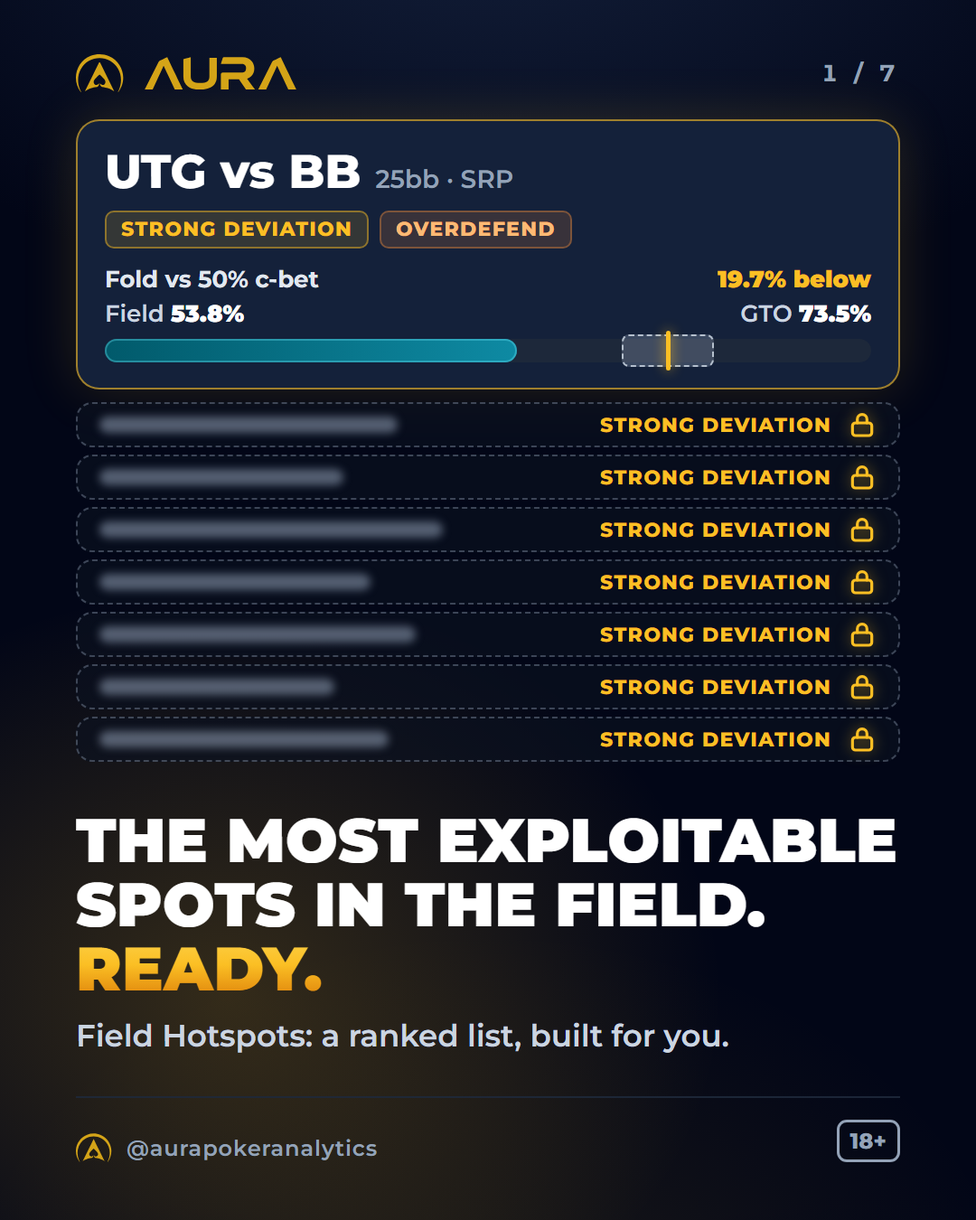
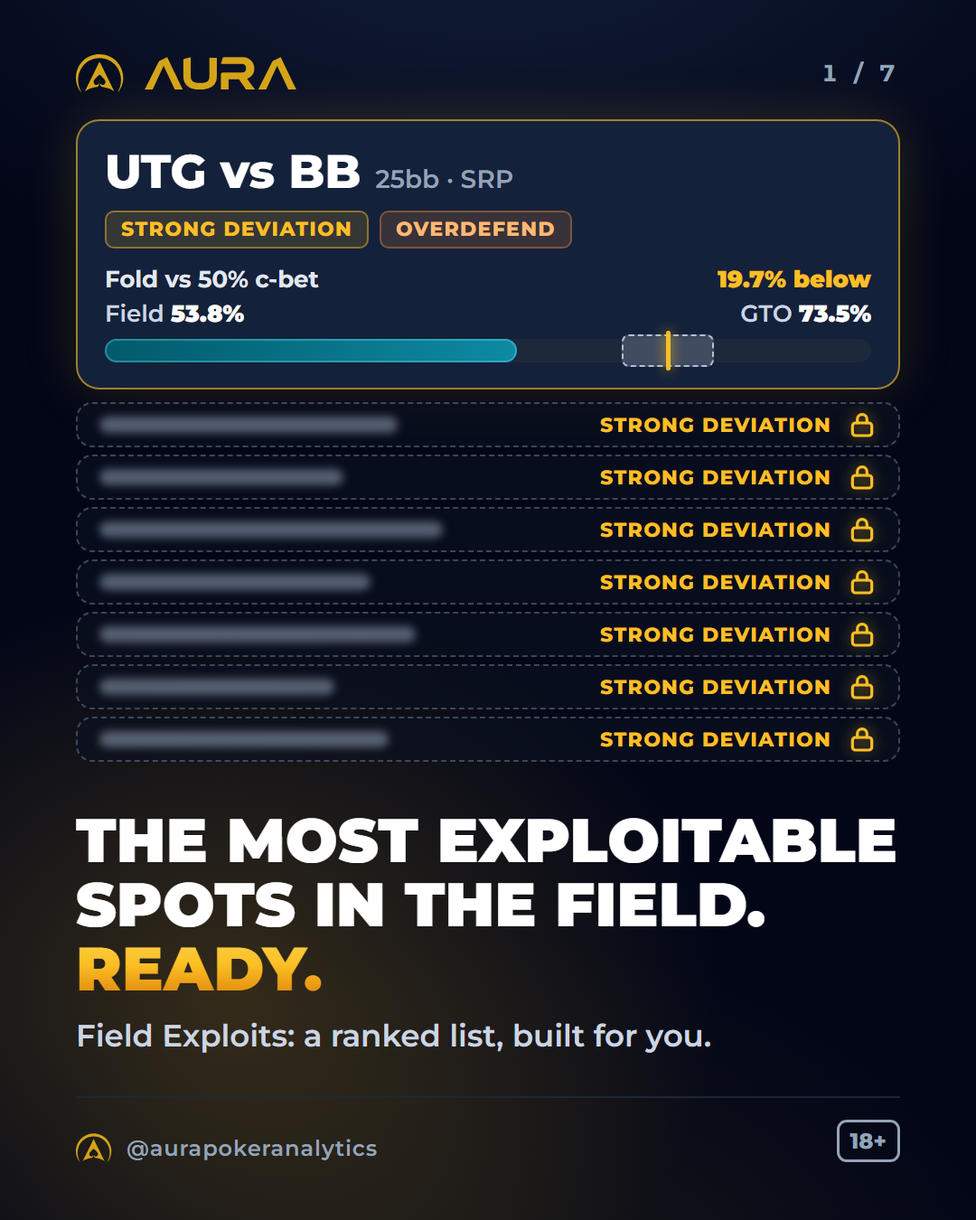
feat(field-exploits): pacote renomeado para Field Exploits (textos, UTMs, artes e e-mail)

Changed region(s): [[0.1833, 0.84, 0.7333, 0.8711]]

diff --git a/content/posts/field-exploits-launch/carrossel-v3/src/feed-pt.html b/content/posts/field-exploits-launch/carrossel-v3/src/feed-pt.html
@@ -42,7 +42,7 @@ u{text-decoration:underline;text-decoration-thickness:5px;text-underline-offset:
 <div class="lab sm"><span>Field <b>53,8%</b></span><span>GTO <b>73,5%</b></span></div>
 <div class="track"><div class="fill" style="width:53.8%"></div><div class="band" style="left:67.5%;width:12.0%"></div><div class="tick" style="left:73.5%"></div></div></div></div></div><div style="margin-top:14px"><div style="display:flex;flex-direction:column;gap:8px"><div class="lk" style="height:50px"><span class="bl" style="width:330px"></span><span class="cf">DESVIO FORTE</span><svg class="lk-ic" viewBox="0 0 24 24" fill="none" stroke="currentColor" stroke-width="2.4" stroke-linecap="round" stroke-linejoin="round"><rect x="4" y="10.5" width="16" height="10.5" rx="2.5"/><path d="M8 10.5V7.5a4 4 0 0 1 8 0v3"/></svg></div><div class="lk" style="height:50px"><span class="bl" style="width:270px"></span><span class="cf">DESVIO FORTE</span><svg class="lk-ic" viewBox="0 0 24 24" fill="none" stroke="currentColor" stroke-width="2.4" stroke-linecap="round" stroke-linejoin="round"><rect x="4" y="10.5" width="16" height="10.5" rx="2.5"/><path d="M8 10.5V7.5a4 4 0 0 1 8 0v3"/></svg></div><div class="lk" style="height:50px"><span class="bl" style="width:380px"></span><span class="cf">DESVIO FORTE</span><svg class="lk-ic" viewBox="0 0 24 24" fill="none" stroke="currentColor" stroke-width="2.4" stroke-linecap="round" stroke-linejoin="round"><rect x="4" y="10.5" width="16" height="10.5" rx="2.5"/><path d="M8 10.5V7.5a4 4 0 0 1 8 0v3"/></svg></div><div class="lk" style="height:50px"><span class="bl" style="width:300px"></span><span class="cf">DESVIO FORTE</span><svg class="lk-ic" viewBox="0 0 24 24" fill="none" stroke="currentColor" stroke-width="2.4" stroke-linecap="round" stroke-linejoin="round"><rect x="4" y="10.5" width="16" height="10.5" rx="2.5"/><path d="M8 10.5V7.5a4 4 0 0 1 8 0v3"/></svg></div><div class="lk" style="height:50px"><span class="bl" style="width:350px"></span><span class="cf">DESVIO FORTE</span><svg class="lk-ic" viewBox="0 0 24 24" fill="none" stroke="currentColor" stroke-width="2.4" stroke-linecap="round" stroke-linejoin="round"><rect x="4" y="10.5" width="16" height="10.5" rx="2.5"/><path d="M8 10.5V7.5a4 4 0 0 1 8 0v3"/></svg></div><div class="lk" style="height:50px"><span class="bl" style="width:260px"></span><span class="cf">DESVIO FORTE</span><svg class="lk-ic" viewBox="0 0 24 24" fill="none" stroke="currentColor" stroke-width="2.4" stroke-linecap="round" stroke-linejoin="round"><rect x="4" y="10.5" width="16" height="10.5" rx="2.5"/><path d="M8 10.5V7.5a4 4 0 0 1 8 0v3"/></svg></div><div class="lk" style="height:50px"><span class="bl" style="width:320px"></span><span class="cf">DESVIO FORTE</span><svg class="lk-ic" viewBox="0 0 24 24" fill="none" stroke="currentColor" stroke-width="2.4" stroke-linecap="round" stroke-linejoin="round"><rect x="4" y="10.5" width="16" height="10.5" rx="2.5"/><path d="M8 10.5V7.5a4 4 0 0 1 8 0v3"/></svg></div></div></div></div>
 <div class="abs bt"><div class="t" data-max="74">Os spots mais exploráveis<br>do field.<br><em>Prontos.</em></div>
-<div class="ss" style="font-size:32px;margin-top:16px;white-space:nowrap" data-fitline>Field Hotspots: a lista ranqueada, pronta pra você.</div></div>
+<div class="ss" style="font-size:32px;margin-top:16px;white-space:nowrap" data-fitline>Field Exploits: a lista ranqueada, pronta pra você.</div></div>
 <footer><div class="handle"><span class="icon" data-icon></span><span>@aurapokeranalytics</span></div><span class="age">18+</span></footer>
 </div><script src="../../instagram/src/common.js"></script>
 <script>

diff --git a/content/posts/field-exploits-launch/carrossel-v3/src/feed-en.html b/content/posts/field-exploits-launch/carrossel-v3/src/feed-en.html
@@ -49,7 +49,7 @@ u{text-decoration:underline;text-decoration-thickness:5px;text-underline-offset:
 <div class="track"><div class="fill" style="width:59.4%"></div><div class="band" style="left:70.3%;width:12.0%"></div><div class="tick" style="left:76.3%"></div></div></div></div></div></div>
  <div style="display:grid;grid-template-columns:1fr 1fr;gap:8px;margin-top:12px"><div class="lk" style="height:46px;padding:0 18px;gap:12px"><span class="bl" style="width:150px"></span><svg class="lk-ic" viewBox="0 0 24 24" fill="none" stroke="currentColor" stroke-width="2.4" stroke-linecap="round" stroke-linejoin="round"><rect x="4" y="10.5" width="16" height="10.5" rx="2.5"/><path d="M8 10.5V7.5a4 4 0 0 1 8 0v3"/></svg></div><div class="lk" style="height:46px;padding:0 18px;gap:12px"><span class="bl" style="width:120px"></span><svg class="lk-ic" viewBox="0 0 24 24" fill="none" stroke="currentColor" stroke-width="2.4" stroke-linecap="round" stroke-linejoin="round"><rect x="4" y="10.5" width="16" height="10.5" rx="2.5"/><path d="M8 10.5V7.5a4 4 0 0 1 8 0v3"/></svg></div><div class="lk" style="height:46px;padding:0 18px;gap:12px"><span class="bl" style="width:170px"></span><svg class="lk-ic" viewBox="0 0 24 24" fill="none" stroke="currentColor" stroke-width="2.4" stroke-linecap="round" stroke-linejoin="round"><rect x="4" y="10.5" width="16" height="10.5" rx="2.5"/><path d="M8 10.5V7.5a4 4 0 0 1 8 0v3"/></svg></div><div class="lk" style="height:46px;padding:0 18px;gap:12px"><span class="bl" style="width:130px"></span><svg class="lk-ic" viewBox="0 0 24 24" fill="none" stroke="currentColor" stroke-width="2.4" stroke-linecap="round" stroke-linejoin="round"><rect x="4" y="10.5" width="16" height="10.5" rx="2.5"/><path d="M8 10.5V7.5a4 4 0 0 1 8 0v3"/></svg></div><div class="lk" style="height:46px;padding:0 18px;gap:12px"><span class="bl" style="width:160px"></span><svg class="lk-ic" viewBox="0 0 24 24" fill="none" stroke="currentColor" stroke-width="2.4" stroke-linecap="round" stroke-linejoin="round"><rect x="4" y="10.5" width="16" height="10.5" rx="2.5"/><path d="M8 10.5V7.5a4 4 0 0 1 8 0v3"/></svg></div><div class="lk" style="height:46px;padding:0 18px;gap:12px"><span class="bl" style="width:110px"></span><svg class="lk-ic" viewBox="0 0 24 24" fill="none" stroke="currentColor" stroke-width="2.4" stroke-linecap="round" stroke-linejoin="round"><rect x="4" y="10.5" width="16" height="10.5" rx="2.5"/><path d="M8 10.5V7.5a4 4 0 0 1 8 0v3"/></svg></div><div class="lk" style="height:46px;padding:0 18px;gap:12px"><span class="bl" style="width:140px"></span><svg class="lk-ic" viewBox="0 0 24 24" fill="none" stroke="currentColor" stroke-width="2.4" stroke-linecap="round" stroke-linejoin="round"><rect x="4" y="10.5" width="16" height="10.5" rx="2.5"/><path d="M8 10.5V7.5a4 4 0 0 1 8 0v3"/></svg></div><div class="lk" style="height:46px;justify-content:center;border-style:solid;border-color:rgba(251,191,36,.5);background:rgba(251,191,36,.08)"><span style="font-size:22px;font-weight:800;letter-spacing:.08em;color:#FBBF24">7 LOCKED</span></div></div></div>
 <div class="abs bt"><div class="t" data-max="74">The most exploitable<br>spots in the field.<br><em>Ready.</em></div>
-<div class="ss" style="font-size:34px;margin-top:16px">Field Hotspots: a ranked list, built for you.</div></div>
+<div class="ss" style="font-size:34px;margin-top:16px">Field Exploits: a ranked list, built for you.</div></div>
 <footer><div class="handle"><span class="icon" data-icon></span><span>@aurapokeranalytics</span></div><span class="age">18+</span></footer>
 </div><script src="../../instagram/src/common.js"></script>
 <script>

diff --git a/content/posts/field-exploits-launch/carrossel-v3/src/story-capa-pt.html b/content/posts/field-exploits-launch/carrossel-v3/src/story-capa-pt.html
@@ -42,7 +42,7 @@ u{text-decoration:underline;text-decoration-thickness:5px;text-underline-offset:
 <div class="lab sm"><span>Field <b>53,8%</b></span><span>GTO <b>73,5%</b></span></div>
 <div class="track"><div class="fill" style="width:53.8%"></div><div class="band" style="left:67.5%;width:12.0%"></div><div class="tick" style="left:73.5%"></div></div></div></div></div><div style="margin-top:14px"><div style="display:flex;flex-direction:column;gap:10px"><div class="lk" style="height:62px"><span class="bl" style="width:330px"></span><span class="cf">DESVIO FORTE</span><svg class="lk-ic" viewBox="0 0 24 24" fill="none" stroke="currentColor" stroke-width="2.4" stroke-linecap="round" stroke-linejoin="round"><rect x="4" y="10.5" width="16" height="10.5" rx="2.5"/><path d="M8 10.5V7.5a4 4 0 0 1 8 0v3"/></svg></div><div class="lk" style="height:62px"><span class="bl" style="width:270px"></span><span class="cf">DESVIO FORTE</span><svg class="lk-ic" viewBox="0 0 24 24" fill="none" stroke="currentColor" stroke-width="2.4" stroke-linecap="round" stroke-linejoin="round"><rect x="4" y="10.5" width="16" height="10.5" rx="2.5"/><path d="M8 10.5V7.5a4 4 0 0 1 8 0v3"/></svg></div><div class="lk" style="height:62px"><span class="bl" style="width:380px"></span><span class="cf">DESVIO FORTE</span><svg class="lk-ic" viewBox="0 0 24 24" fill="none" stroke="currentColor" stroke-width="2.4" stroke-linecap="round" stroke-linejoin="round"><rect x="4" y="10.5" width="16" height="10.5" rx="2.5"/><path d="M8 10.5V7.5a4 4 0 0 1 8 0v3"/></svg></div><div class="lk" style="height:62px"><span class="bl" style="width:300px"></span><span class="cf">DESVIO FORTE</span><svg class="lk-ic" viewBox="0 0 24 24" fill="none" stroke="currentColor" stroke-width="2.4" stroke-linecap="round" stroke-linejoin="round"><rect x="4" y="10.5" width="16" height="10.5" rx="2.5"/><path d="M8 10.5V7.5a4 4 0 0 1 8 0v3"/></svg></div><div class="lk" style="height:62px"><span class="bl" style="width:350px"></span><span class="cf">DESVIO FORTE</span><svg class="lk-ic" viewBox="0 0 24 24" fill="none" stroke="currentColor" stroke-width="2.4" stroke-linecap="round" stroke-linejoin="round"><rect x="4" y="10.5" width="16" height="10.5" rx="2.5"/><path d="M8 10.5V7.5a4 4 0 0 1 8 0v3"/></svg></div><div class="lk" style="height:62px"><span class="bl" style="width:260px"></span><span class="cf">DESVIO FORTE</span><svg class="lk-ic" viewBox="0 0 24 24" fill="none" stroke="currentColor" stroke-width="2.4" stroke-linecap="round" stroke-linejoin="round"><rect x="4" y="10.5" width="16" height="10.5" rx="2.5"/><path d="M8 10.5V7.5a4 4 0 0 1 8 0v3"/></svg></div><div class="lk" style="height:62px"><span class="bl" style="width:320px"></span><span class="cf">DESVIO FORTE</span><svg class="lk-ic" viewBox="0 0 24 24" fill="none" stroke="currentColor" stroke-width="2.4" stroke-linecap="round" stroke-linejoin="round"><rect x="4" y="10.5" width="16" height="10.5" rx="2.5"/><path d="M8 10.5V7.5a4 4 0 0 1 8 0v3"/></svg></div></div></div></div>
 <div class="abs" style="top:1130px"><div class="t" data-max="74">Os spots mais exploráveis<br>do field.<br><em>Prontos.</em></div>
-<div class="ss" style="font-size:36px;margin-top:18px">Field Hotspots no menu do topo.</div></div>
+<div class="ss" style="font-size:36px;margin-top:18px">Field Exploits no menu do topo.</div></div>
 <footer><div class="handle"><span class="icon" data-icon></span><span>@aurapokeranalytics</span></div><span class="age">18+</span></footer>
 </div><script src="../../instagram/src/common.js"></script>
 <script>

diff --git a/content/posts/field-exploits-launch/carrossel-v3/src/carrossel-en-01.html b/content/posts/field-exploits-launch/carrossel-v3/src/carrossel-en-01.html
@@ -42,7 +42,7 @@
 <div class="lab sm"><span>Field <b>53.8%</b></span><span>GTO <b>73.5%</b></span></div>
 <div class="track"><div class="fill" style="width:53.8%"></div><div class="band" style="left:67.5%;width:12.0%"></div><div class="tick" style="left:73.5%"></div></div></div></div></div><div style="display:flex;flex-direction:column;gap:8px;margin-top:14px"><div class="lk" style="height:50px"><span class="bl" style="width:330px"></span><span class="cf">STRONG DEVIATION</span><svg class="lk-ic" viewBox="0 0 24 24" fill="none" stroke="currentColor" stroke-width="2.4" stroke-linecap="round" stroke-linejoin="round"><rect x="4" y="10.5" width="16" height="10.5" rx="2.5"/><path d="M8 10.5V7.5a4 4 0 0 1 8 0v3"/></svg></div><div class="lk" style="height:50px"><span class="bl" style="width:270px"></span><span class="cf">STRONG DEVIATION</span><svg class="lk-ic" viewBox="0 0 24 24" fill="none" stroke="currentColor" stroke-width="2.4" stroke-linecap="round" stroke-linejoin="round"><rect x="4" y="10.5" width="16" height="10.5" rx="2.5"/><path d="M8 10.5V7.5a4 4 0 0 1 8 0v3"/></svg></div><div class="lk" style="height:50px"><span class="bl" style="width:380px"></span><span class="cf">STRONG DEVIATION</span><svg class="lk-ic" viewBox="0 0 24 24" fill="none" stroke="currentColor" stroke-width="2.4" stroke-linecap="round" stroke-linejoin="round"><rect x="4" y="10.5" width="16" height="10.5" rx="2.5"/><path d="M8 10.5V7.5a4 4 0 0 1 8 0v3"/></svg></div><div class="lk" style="height:50px"><span class="bl" style="width:300px"></span><span class="cf">STRONG DEVIATION</span><svg class="lk-ic" viewBox="0 0 24 24" fill="none" stroke="currentColor" stroke-width="2.4" stroke-linecap="round" stroke-linejoin="round"><rect x="4" y="10.5" width="16" height="10.5" rx="2.5"/><path d="M8 10.5V7.5a4 4 0 0 1 8 0v3"/></svg></div><div class="lk" style="height:50px"><span class="bl" style="width:350px"></span><span class="cf">STRONG DEVIATION</span><svg class="lk-ic" viewBox="0 0 24 24" fill="none" stroke="currentColor" stroke-width="2.4" stroke-linecap="round" stroke-linejoin="round"><rect x="4" y="10.5" width="16" height="10.5" rx="2.5"/><path d="M8 10.5V7.5a4 4 0 0 1 8 0v3"/></svg></div><div class="lk" style="height:50px"><span class="bl" style="width:260px"></span><span class="cf">STRONG DEVIATION</span><svg class="lk-ic" viewBox="0 0 24 24" fill="none" stroke="currentColor" stroke-width="2.4" stroke-linecap="round" stroke-linejoin="round"><rect x="4" y="10.5" width="16" height="10.5" rx="2.5"/><path d="M8 10.5V7.5a4 4 0 0 1 8 0v3"/></svg></div><div class="lk" style="height:50px"><span class="bl" style="width:320px"></span><span class="cf">STRONG DEVIATION</span><svg class="lk-ic" viewBox="0 0 24 24" fill="none" stroke="currentColor" stroke-width="2.4" stroke-linecap="round" stroke-linejoin="round"><rect x="4" y="10.5" width="16" height="10.5" rx="2.5"/><path d="M8 10.5V7.5a4 4 0 0 1 8 0v3"/></svg></div></div></div>
 <div class="abs bt"><div class="t" data-max="74">The most exploitable<br>spots in the field.<br><em>Ready.</em></div>
-<div class="ss" style="font-size:34px;margin-top:16px">Field Hotspots: a ranked list, built for you.</div></div>
+<div class="ss" style="font-size:34px;margin-top:16px">Field Exploits: a ranked list, built for you.</div></div>
 <footer><div class="handle"><span class="icon" data-icon></span><span>@aurapokeranalytics</span></div><span class="age">18+</span></footer>
 </div><script src="../../instagram/src/common.js"></script>
 <script>

diff --git a/content/posts/field-exploits-launch/email-pt.html b/content/posts/field-exploits-launch/email-pt.html
@@ -39,7 +39,7 @@
           </tr>
           <tr>
             <td style="padding-top:8px; padding-right:34px; padding-bottom:4px; padding-left:34px;" align="center">
-              <img src="https://www.aurapoker.com/email/field-hotspots-pt.png" width="530" height="485" alt="Card do Field Hotspots para o spot UTG vs BB a 25bb em SRP, flop A-high two-tone: fold do field contra o do GTO, rótulo Overdefend e a caixa Como explorar: blefe menos e aposte mais por value." style="display:block; width:100%; max-width:530px; height:auto; border:0; outline:none; text-decoration:none;">
+              <img src="https://www.aurapoker.com/email/field-exploits-pt.png" width="530" height="485" alt="Card do Field Exploits para o spot UTG vs BB a 25bb em SRP, flop A-high two-tone: fold do field contra o do GTO, rótulo Overdefend e a caixa Como explorar: blefe menos e aposte mais por value." style="display:block; width:100%; max-width:530px; height:auto; border:0; outline:none; text-decoration:none;">
             </td>
           </tr>
           <tr>
@@ -51,7 +51,7 @@
             <td style="padding-top:22px; padding-right:34px; padding-bottom:6px; padding-left:34px;" align="center">
               <table role="presentation" cellpadding="0" cellspacing="0" border="0"><tr>
                 <td align="center" bgcolor="#D4A418" style="border-radius:10px; background-color:#D4A418;">
-                  <a href="https://www.aurapoker.com?utm_source=email&amp;utm_medium=email&amp;utm_campaign=field-hotspots-launch&amp;utm_content=pt" style="display:inline-block; padding-top:14px; padding-bottom:14px; padding-left:34px; padding-right:34px; font-family:Arial,Helvetica,sans-serif; font-size:16px; font-weight:bold; color:#0b1220; text-decoration:none; border-radius:10px;">Abrir a lista</a>
+                  <a href="https://www.aurapoker.com?utm_source=email&amp;utm_medium=email&amp;utm_campaign=field-exploits-launch&amp;utm_content=pt" style="display:inline-block; padding-top:14px; padding-bottom:14px; padding-left:34px; padding-right:34px; font-family:Arial,Helvetica,sans-serif; font-size:16px; font-weight:bold; color:#0b1220; text-decoration:none; border-radius:10px;">Abrir a lista</a>
                 </td>
               </tr></table>
               <p style="margin:12px 0 0 0; font-family:Arial,Helvetica,sans-serif; font-size:13px; line-height:1.5; color:#9aa7ba;">1.ª troca de spots: segunda, 02/11. Ferramenta de estudo. 18+.</p>

diff --git a/content/posts/field-exploits-launch/email-en.html b/content/posts/field-exploits-launch/email-en.html
@@ -39,7 +39,7 @@
           </tr>
           <tr>
             <td style="padding-top:8px; padding-right:34px; padding-bottom:4px; padding-left:34px;" align="center">
-              <img src="https://www.aurapoker.com/email/field-hotspots-en.png" width="530" height="510" alt="Field Hotspots card for the UTG vs BB spot at 25bb in an SRP, A-high two-tone flop: field fold against GTO fold, an Overdefend label and the How to exploit box: bluff less and bet more for value." style="display:block; width:100%; max-width:530px; height:auto; border:0; outline:none; text-decoration:none;">
+              <img src="https://www.aurapoker.com/email/field-exploits-en.png" width="530" height="510" alt="Field Exploits card for the UTG vs BB spot at 25bb in an SRP, A-high two-tone flop: field fold against GTO fold, an Overdefend label and the How to exploit box: bluff less and bet more for value." style="display:block; width:100%; max-width:530px; height:auto; border:0; outline:none; text-decoration:none;">
             </td>
           </tr>
           <tr>
@@ -51,7 +51,7 @@
             <td style="padding-top:22px; padding-right:34px; padding-bottom:6px; padding-left:34px;" align="center">
               <table role="presentation" cellpadding="0" cellspacing="0" border="0"><tr>
                 <td align="center" bgcolor="#D4A418" style="border-radius:10px; background-color:#D4A418;">
-                  <a href="https://www.aurapoker.com?utm_source=email&amp;utm_medium=email&amp;utm_campaign=field-hotspots-launch&amp;utm_content=en" style="display:inline-block; padding-top:14px; padding-bottom:14px; padding-left:34px; padding-right:34px; font-family:Arial,Helvetica,sans-serif; font-size:16px; font-weight:bold; color:#0b1220; text-decoration:none; border-radius:10px;">Get the list</a>
+                  <a href="https://www.aurapoker.com?utm_source=email&amp;utm_medium=email&amp;utm_campaign=field-exploits-launch&amp;utm_content=en" style="display:inline-block; padding-top:14px; padding-bottom:14px; padding-left:34px; padding-right:34px; font-family:Arial,Helvetica,sans-serif; font-size:16px; font-weight:bold; color:#0b1220; text-decoration:none; border-radius:10px;">Get the list</a>
                 </td>
               </tr></table>
               <p style="margin:12px 0 0 0; font-family:Arial,Helvetica,sans-serif; font-size:13px; line-height:1.5; color:#9aa7ba;">First spot swap: Monday, Nov 2. Study tool. 18+.</p>

diff --git a/content/posts/field-exploits-launch/email-pt.preview.html b/content/posts/field-exploits-launch/email-pt.preview.html
@@ -39,7 +39,7 @@
           </tr>
           <tr>
             <td style="padding-top:8px; padding-right:34px; padding-bottom:4px; padding-left:34px;" align="center">
-              <img src="email/field-hotspots-pt.png" width="530" height="485" alt="Card do Field Hotspots para o spot UTG vs BB a 25bb em SRP, flop A-high two-tone: fold do field contra o do GTO, rótulo Overdefend e a caixa Como explorar: blefe menos e aposte mais por value." style="display:block; width:100%; max-width:530px; height:auto; border:0; outline:none; text-decoration:none;">
+              <img src="email/field-exploits-pt.png" width="530" height="485" alt="Card do Field Exploits para o spot UTG vs BB a 25bb em SRP, flop A-high two-tone: fold do field contra o do GTO, rótulo Overdefend e a caixa Como explorar: blefe menos e aposte mais por value." style="display:block; width:100%; max-width:530px; height:auto; border:0; outline:none; text-decoration:none;">
             </td>
           </tr>
           <tr>
@@ -51,7 +51,7 @@
             <td style="padding-top:22px; padding-right:34px; padding-bottom:6px; padding-left:34px;" align="center">
               <table role="presentation" cellpadding="0" cellspacing="0" border="0"><tr>
                 <td align="center" bgcolor="#D4A418" style="border-radius:10px; background-color:#D4A418;">
-                  <a href="https://www.aurapoker.com?utm_source=email&amp;utm_medium=email&amp;utm_campaign=field-hotspots-launch&amp;utm_content=pt" style="display:inline-block; padding-top:14px; padding-bottom:14px; padding-left:34px; padding-right:34px; font-family:Arial,Helvetica,sans-serif; font-size:16px; font-weight:bold; color:#0b1220; text-decoration:none; border-radius:10px;">Abrir a lista</a>
+                  <a href="https://www.aurapoker.com?utm_source=email&amp;utm_medium=email&amp;utm_campaign=field-exploits-launch&amp;utm_content=pt" style="display:inline-block; padding-top:14px; padding-bottom:14px; padding-left:34px; padding-right:34px; font-family:Arial,Helvetica,sans-serif; font-size:16px; font-weight:bold; color:#0b1220; text-decoration:none; border-radius:10px;">Abrir a lista</a>
                 </td>
               </tr></table>
               <p style="margin:12px 0 0 0; font-family:Arial,Helvetica,sans-serif; font-size:13px; line-height:1.5; color:#9aa7ba;">1.ª troca de spots: segunda, 02/11. Ferramenta de estudo. 18+.</p>

diff --git a/content/posts/field-exploits-launch/email-en.preview.html b/content/posts/field-exploits-launch/email-en.preview.html
@@ -39,7 +39,7 @@
           </tr>
           <tr>
             <td style="padding-top:8px; padding-right:34px; padding-bottom:4px; padding-left:34px;" align="center">
-              <img src="email/field-hotspots-en.png" width="530" height="510" alt="Field Hotspots card for the UTG vs BB spot at 25bb in an SRP, A-high two-tone flop: field fold against GTO fold, an Overdefend label and the How to exploit box: bluff less and bet more for value." style="display:block; width:100%; max-width:530px; height:auto; border:0; outline:none; text-decoration:none;">
+              <img src="email/field-exploits-en.png" width="530" height="510" alt="Field Exploits card for the UTG vs BB spot at 25bb in an SRP, A-high two-tone flop: field fold against GTO fold, an Overdefend label and the How to exploit box: bluff less and bet more for value." style="display:block; width:100%; max-width:530px; height:auto; border:0; outline:none; text-decoration:none;">
             </td>
           </tr>
           <tr>
@@ -51,7 +51,7 @@
             <td style="padding-top:22px; padding-right:34px; padding-bottom:6px; padding-left:34px;" align="center">
               <table role="presentation" cellpadding="0" cellspacing="0" border="0"><tr>
                 <td align="center" bgcolor="#D4A418" style="border-radius:10px; background-color:#D4A418;">
-                  <a href="https://www.aurapoker.com?utm_source=email&amp;utm_medium=email&amp;utm_campaign=field-hotspots-launch&amp;utm_content=en" style="display:inline-block; padding-top:14px; padding-bottom:14px; padding-left:34px; padding-right:34px; font-family:Arial,Helvetica,sans-serif; font-size:16px; font-weight:bold; color:#0b1220; text-decoration:none; border-radius:10px;">Get the list</a>
+                  <a href="https://www.aurapoker.com?utm_source=email&amp;utm_medium=email&amp;utm_campaign=field-exploits-launch&amp;utm_content=en" style="display:inline-block; padding-top:14px; padding-bottom:14px; padding-left:34px; padding-right:34px; font-family:Arial,Helvetica,sans-serif; font-size:16px; font-weight:bold; color:#0b1220; text-decoration:none; border-radius:10px;">Get the list</a>
                 </td>
               </tr></table>
               <p style="margin:12px 0 0 0; font-family:Arial,Helvetica,sans-serif; font-size:13px; line-height:1.5; color:#9aa7ba;">First spot swap: Monday, Nov 2. Study tool. 18+.</p>

diff --git a/content/posts/field-exploits-launch/instagram/src/base.css b/content/posts/field-exploits-launch/instagram/src/base.css
@@ -131,7 +131,7 @@ small { font-size: 0.72em; font-weight: 600; color: var(--ink-soft); white-space
 .fcard .fglow { position: absolute; left: 50%; top: 50%; width: 1200px; height: 620px; transform: translate(-50%, -50%); background: radial-gradient(closest-side, rgba(251,191,36,.30), transparent); }
 .pillrow .seal.big { font-size: 34px; padding: 14px 30px; margin: 0; vertical-align: baseline; background: transparent; color: #FBBF24; border: 3px solid #FBBF24; }
 
-/* ---- Field Hotspots ---- */
+/* ---- Field Exploits ---- */
 .title { white-space: normal; }
 .sub { margin-top: 22px; }
 :root { --od-bg: rgba(251, 146, 60, .16); --od: #FDBA74; --of-bg: rgba(56, 189, 248, .14); --of: #7DD3FC; }

diff --git a/content/posts/field-exploits-launch/carrossel-v3/build_pacote.py b/content/posts/field-exploits-launch/carrossel-v3/build_pacote.py
@@ -1,8 +1,8 @@
-"""Field Hotspots - resto do pacote no visual e na narrativa do carrossel V3.
+"""Field Exploits - resto do pacote no visual e na narrativa do carrossel V3.
 
 Gera: instagram/feed-pt.png, feed-en.png (1080x1350), story-pt.png, story-en.png, story-capa-pt.png (1080x1920)
-      e email/field-hotspots-pt.png, -en.png (card do spot, 1200 px de largura).
-HTML-fonte em carrossel-v3/src/. Espelho das artes de Instagram em instagram/output/field-hotspots-launch/.
+      e email/field-exploits-pt.png, -en.png (card do spot, 1200 px de largura).
+HTML-fonte em carrossel-v3/src/. Espelho das artes de Instagram em instagram/output/field-exploits-launch/.
 Reusa CSS, textura de celulas, barras field x GTO e cartas de build.py (carrossel V3). Numeros so de ../numeros-verificados.md
 e _ops/home-painel-v2/numeros.md (6.9M+). Os 7 cards trancados sao formas borradas, sem texto de spot.
 Nao gera o HTML do e-mail (so a imagem).
@@ -23,7 +23,7 @@ from build import CSS, FIT_JS, HERE, LOCK, SRC, bar_block, card_el, dots, title
 POST = HERE.parent
 IG = POST / "instagram"
 EMAIL = POST / "email"
-MIRROR = B.ROOT / "instagram/output/field-hotspots-launch"
+MIRROR = B.ROOT / "instagram/output/field-exploits-launch"
 
 T = {
     "pt": dict(
@@ -82,7 +82,7 @@ def feed_pt():
     body = f"""<div class="glowb" style="left:-300px;bottom:-200px;width:1100px;height:900px"></div>
 <div class="abs" style="top:132px">{open_card('pt')}<div style="margin-top:14px">{locked_rows(7, 50, 'DESVIO FORTE')}</div></div>
 <div class="abs bt">{title('Os spots mais exploráveis<br>do field.<br><em>Prontos.</em>', 74)}
-<div class="ss" style="font-size:32px;margin-top:16px;white-space:nowrap" data-fitline>Field Hotspots: a lista ranqueada, pronta pra você.</div></div>"""
+<div class="ss" style="font-size:32px;margin-top:16px;white-space:nowrap" data-fitline>Field Exploits: a lista ranqueada, pronta pra você.</div></div>"""
     return shell(body, 1350)
 
 
@@ -100,7 +100,7 @@ def feed_en():
  <div style="margin-top:20px">{blocks}</div></div>
  <div style="display:grid;grid-template-columns:1fr 1fr;gap:8px;margin-top:12px">{cells}</div></div>
 <div class="abs bt">{title('The most exploitable<br>spots in the field.<br><em>Ready.</em>', 74)}
-<div class="ss" style="font-size:34px;margin-top:16px">Field Hotspots: a ranked list, built for you.</div></div>"""
+<div class="ss" style="font-size:34px;margin-top:16px">Field Exploits: a ranked list, built for you.</div></div>"""
     return shell(body, 1350, ".hb .lab{font-size:24px}.hb .track{height:20px;margin-top:10px}.hb .lab.sm{margin-top:2px}")
 
 
@@ -146,7 +146,7 @@ def story_capa_pt():
     body = f"""<div class="glowb" style="left:-300px;bottom:100px;width:1100px;height:900px"></div>
 <div class="abs" style="top:290px">{open_card('pt')}<div style="margin-top:14px">{locked_rows(7, 62, 'DESVIO FORTE', gap=10)}</div></div>
 <div class="abs" style="top:1130px">{title('Os spots mais exploráveis<br>do field.<br><em>Prontos.</em>', 74)}
-<div class="ss" style="font-size:36px;margin-top:18px">Field Hotspots no menu do topo.</div></div>"""
+<div class="ss" style="font-size:36px;margin-top:18px">Field Exploits no menu do topo.</div></div>"""
     return shell(body, 1920, top=190)
 
 
@@ -178,7 +178,7 @@ JOBS = {
     "story-pt": (lambda: story_num("pt"), 1920, IG), "story-en": (lambda: story_num("en"), 1920, IG),
     "story-capa-pt": (story_capa_pt, 1920, IG),
 }
-BANNED = ["beta", "ponte", "pool vs gto", "overlay", "solver", "wizard", "pool", "campo", "early bird", "mdf", "top 8", "os maiores", "biggest", "pp "]
+BANNED = ["beta", "ponte", "pool vs gto", "overlay", "solver", "wizard", "pool", "campo", "early bird", "mdf", "top 8", "hotspot", "hotspots", "os maiores", "biggest", "pp "]
 
 QA_JS = """() => {
   const page = document.querySelector('.page');
@@ -233,7 +233,7 @@ if __name__ == "__main__":
             pg.goto(f.as_uri())
             pg.evaluate("document.fonts.ready")
             pg.wait_for_timeout(400)
-            png = EMAIL / f"field-hotspots-{lang}.png"
+            png = EMAIL / f"field-exploits-{lang}.png"
             pg.locator("#m").screenshot(path=str(png))
             txt = pg.evaluate("document.body.innerText").lower()
             pg.close()
@@ -247,7 +247,7 @@ if __name__ == "__main__":
     for lang in ("pt", "en"):
         if only and f"email-{lang}" not in only:
             continue
-        im = Image.open(EMAIL / f"field-hotspots-{lang}.png")
+        im = Image.open(EMAIL / f"field-exploits-{lang}.png")
         hd = round(im.height * 530 / im.width)
         htmls = {}
         for kind, preview in (("final", False), ("preview", True)):

diff --git a/content/posts/field-exploits-launch/carrossel-v3/email_html.py b/content/posts/field-exploits-launch/carrossel-v3/email_html.py
@@ -1,6 +1,6 @@
-"""Field Hotspots - HTML de envio do e-mail (Resend, 600 px, tabelas e estilos inline) e QA.
+"""Field Exploits - HTML de envio do e-mail (Resend, 600 px, tabelas e estilos inline) e QA.
 
-Texto: ../email.md (blocos "Corpo (copiar)", PT e EN), assunto recomendado = opcao 1. Imagem: ../email/field-hotspots-<lang>.png
+Texto: ../email.md (blocos "Corpo (copiar)", PT e EN), assunto recomendado = opcao 1. Imagem: ../email/field-exploits-<lang>.png
 (gerada por build_pacote.py). O HTML de envio aponta para https://www.aurapoker.com/email/ (hospedagem no aura-landing, outra frente);
 o .preview.html usa o caminho relativo email/. Chamado por build_pacote.py.
 """
@@ -11,7 +11,7 @@ from pathlib import Path
 POST = Path(__file__).resolve().parents[1]
 EMAIL = POST / "email"
 IMG_BASE = "https://www.aurapoker.com/email/"
-LANDING = "https://www.aurapoker.com?utm_source=email&utm_medium=email&utm_campaign=field-hotspots-launch&utm_content={lang}"
+LANDING = "https://www.aurapoker.com?utm_source=email&utm_medium=email&utm_campaign=field-exploits-launch&utm_content={lang}"
 UNSUB = "{{{RESEND_UNSUBSCRIBE_URL}}}"
 
 EM = {
@@ -27,7 +27,7 @@ EM = {
         btn="Abrir a lista", under="1.ª troca de spots: segunda, 02/11. Ferramenta de estudo. 18+.",
         f1="Você recebe este e-mail porque tem uma conta ou lista de espera da Aura.", unsub="Cancelar inscrição",
         f2="Ferramenta de estudo. 18+.", f3="Fale com a gente:",
-        alt="Card do Field Hotspots para o spot UTG vs BB a 25bb em SRP, flop A-high two-tone: fold do field contra o do GTO, rótulo Overdefend e a caixa Como explorar: blefe menos e aposte mais por value.",
+        alt="Card do Field Exploits para o spot UTG vs BB a 25bb em SRP, flop A-high two-tone: fold do field contra o do GTO, rótulo Overdefend e a caixa Como explorar: blefe menos e aposte mais por value.",
     ),
     "en": dict(
         lang_attr="en", subject="The list of the field's most exploitable spots is ready",
@@ -41,7 +41,7 @@ EM = {
         btn="Get the list", under="First spot swap: Monday, Nov 2. Study tool. 18+.",
         f1="You are receiving this email because you have an Aura account or waitlist spot.", unsub="Unsubscribe",
         f2="Study tool. 18+.", f3="Reach us:",
-        alt="Field Hotspots card for the UTG vs BB spot at 25bb in an SRP, A-high two-tone flop: field fold against GTO fold, an Overdefend label and the How to exploit box: bluff less and bet more for value.",
+        alt="Field Exploits card for the UTG vs BB spot at 25bb in an SRP, A-high two-tone flop: field fold against GTO fold, an Overdefend label and the How to exploit box: bluff less and bet more for value.",
     ),
 }
 
@@ -125,7 +125,7 @@ def email_html(lang, img_h, preview):
     c = dict(EM[lang])
     c["subject"] = H.escape(c["subject"])
     c["alt"] = H.escape(c["alt"])
-    c["src"] = f"email/field-hotspots-{lang}.png" if preview else f"{IMG_BASE}field-hotspots-{lang}.png"
+    c["src"] = f"email/field-exploits-{lang}.png" if preview else f"{IMG_BASE}field-exploits-{lang}.png"
     c["url"] = LANDING.format(lang=lang).replace("&", "&amp;")
     c["unsub_url"] = UNSUB
     c["img_h"] = str(img_h)
@@ -151,7 +151,7 @@ def qa(lang, htmls, banned):
             out.append(f"{tag}: UTM do CTA ausente")
         if f'href="{UNSUB}"' not in h:
             out.append(f"{tag}: descadastro ausente")
-        want = f"email/field-hotspots-{lang}.png" if kind == "preview" else f"{IMG_BASE}field-hotspots-{lang}.png"
+        want = f"email/field-exploits-{lang}.png" if kind == "preview" else f"{IMG_BASE}field-exploits-{lang}.png"
         if f'src="{want}"' not in h:
             out.append(f"{tag}: imagem {want} ausente")
         if "app.aura.poker" in h or "/login" in h.lower():

diff --git a/content/posts/field-exploits-launch/instagram/src/build.py b/content/posts/field-exploits-launch/instagram/src/build.py
@@ -1,9 +1,9 @@
-"""Field Hotspots - build das artes de lancamento (mesmo pipeline HTML -> PNG do Modo GTO).
+"""Field Exploits - build das artes de lancamento (mesmo pipeline HTML -> PNG do Modo GTO).
 
 1. le numbers.json (unica fonte de numero; hoje tudo "[NUM]", ver numeros-verificados.md quando chegar)
 2. gera os HTMLs-fonte em src/
-3. renderiza com Playwright (device_scale_factor=1) -> PNGs em content/posts/field-hotspots-launch/instagram/
-   e copia para instagram/output/field-hotspots-launch/
+3. renderiza com Playwright (device_scale_factor=1) -> PNGs em content/posts/field-exploits-launch/instagram/
+   e copia para instagram/output/field-exploits-launch/
 
 Enquanto houver [NUM] em numbers.json, as artes saem com o marcador [NUM] vermelho visivel onde iria o numero
 (o build avisa; --strict falha). Preencheu o JSON: python build.py && python build_email.py && python qa.py
@@ -28,13 +28,13 @@ from lib import ASSETS, FLOPS, LOCK, MIRROR, MOCK, OUT, SRC, TPL, board, card, c
 
 # ---------------------------------------------------------------- textos (copy.md, secao "Textos das artes")
 ART = {
-    "carrossel-en-01": dict(lang="en", size=(1080, 1350), kind="c1", idx=1, t="Field Hotspots<br>is <em>live</em>", s="8 strong field deviations from GTO, spot by spot.", ts=84, num=()),
+    "carrossel-en-01": dict(lang="en", size=(1080, 1350), kind="c1", idx=1, t="Field Exploits<br>is <em>live</em>", s="8 strong field deviations from GTO, spot by spot.", ts=84, num=()),
     "carrossel-en-02": dict(lang="en", size=(1080, 1350), kind="c2", idx=2, t="Postflop spots.<br><em>Field vs GTO.</em>", s="Position pair, stack, pot type, flop texture.", ts=80, num=()),
     "carrossel-en-03": dict(lang="en", size=(1080, 1350), kind="c3", idx=3, t="One spot,<br><em>fully broken down</em>", s="UTG vs BB · 25bb · SRP · A-high two-tone flop", ts=70, num=("N1", "N2", "N3", "N4", "N5")),
     "carrossel-en-04": dict(lang="en", size=(1080, 1350), kind="c4", idx=4, t="How to<br><em>exploit it</em>", s=None, ts=104, num=()),
     "carrossel-en-05": dict(lang="en", size=(1080, 1350), kind="c5", idx=5, t="Free sees 1.<br><em>GTO Mode sees 8.</em>", s="The other 7 spots stay locked.", ts=88, num=()),
     "carrossel-en-06": dict(lang="en", size=(1080, 1350), kind="c6", idx=6, t="Spots leave<br><em>every Monday</em>", s="2 out, 2 in. First swap: Nov 2.", ts=92, num=()),
-    "carrossel-en-07": dict(lang="en", size=(1080, 1350), kind="cta", idx=7, t="See this week's<br>hotspots", s="Link in bio.", ts=62, num=()),
+    "carrossel-en-07": dict(lang="en", size=(1080, 1350), kind="cta", idx=7, t="See this week's<br>exploits", s="Link in bio.", ts=62, num=()),
 }
 N_SLIDES = 7
 PILL = {"story-capa-pt": "NOVO", "carrossel-en-01": "NEW"}
@@ -69,7 +69,7 @@ document.fonts.ready.then(() => {{
 
 def page(lang, h, inner, css="", cls=""):
     return f"""<!DOCTYPE html>
-<html lang="{lang}"><head><meta charset="UTF-8"><title>Aura Field Hotspots</title>
+<html lang="{lang}"><head><meta charset="UTF-8"><title>Aura Field Exploits</title>
 <link rel="stylesheet" href="base.css"><style>{css}</style></head>
 <body><div class="page h{h} {cls}">
 <div class="vignette"></div>
